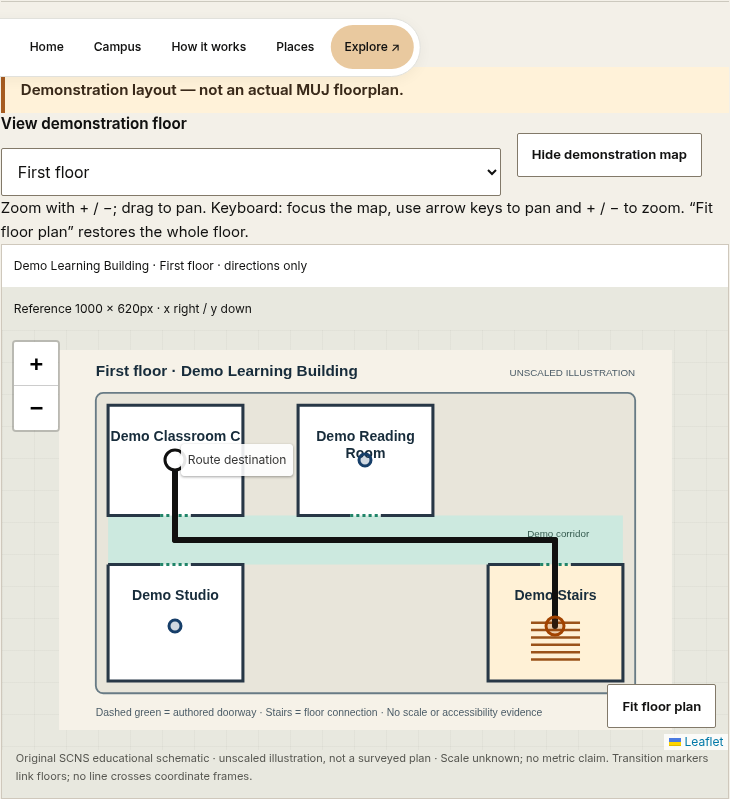
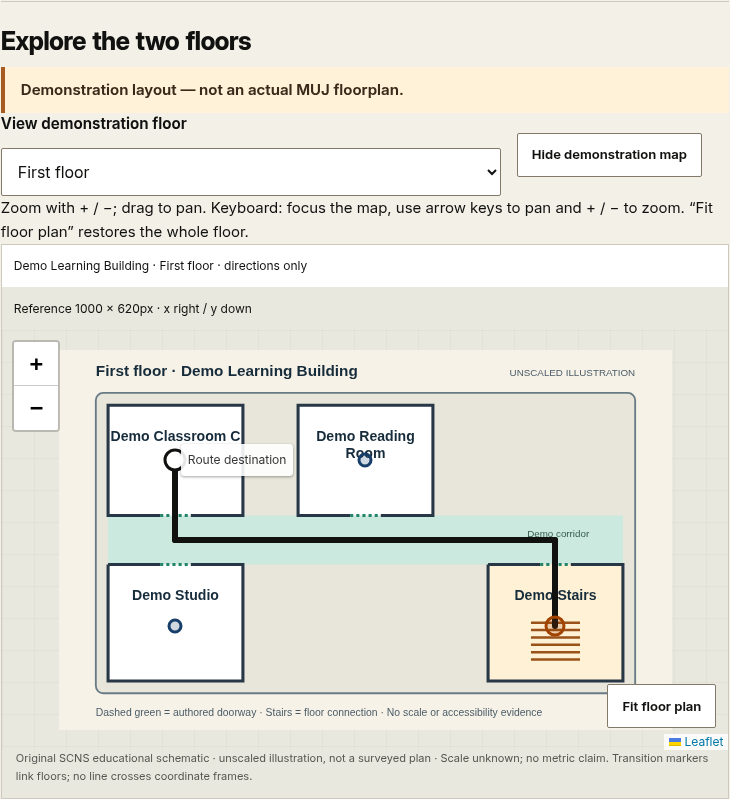
WIP unfinished: save verified explorer integration before Docker regression receipt

Changed region(s): [[0.0, 0.03, 0.5726, 0.1202]]

diff --git a/tests/e2e/educational-explorer.spec.ts b/tests/e2e/educational-explorer.spec.ts
@@ -85,16 +85,16 @@ test('integrated floors, computed paths, separate choices/results, share reload 
   await expect(page.getByText('Take Demo Stairs from First floor to Ground floor.',{exact:false})).toBeVisible()
   await lines(page,4)
   await choose(page,'Demo Classroom A','Demo Disconnected Room')
-  await expect(panel(page).getByRole('alert')).toContainText('has no authored graph connection')
+  await expect(panel(page).getByRole('alert',{includeHidden:true})).toContainText('has no authored graph connection')
   await lines(page,0)
   await outdoor(page)
-  await expect(panel(page).getByRole('alert')).not.toBeVisible()
+  await expect(panel(page).getByRole('alert',{includeHidden:true})).not.toBeVisible()
   await expect(page.locator('.route-metrics')).toContainText('257')
   await page.reload()
   await expect(page.getByRole('tab',{name:'Outdoor',exact:true})).toHaveAttribute('aria-selected','true')
   await expect(page.locator('.route-metrics')).toContainText('257')
   await indoor(page)
-  await expect(panel(page).getByRole('alert')).toContainText('has no authored graph connection')
+  await expect(panel(page).getByRole('alert',{includeHidden:true})).toContainText('has no authored graph connection')
 })
 
 test('late outdoor and indoor responses never replace active mode, state, focus or error',async({page})=>{
@@ -128,7 +128,7 @@ test('late outdoor and indoor responses never replace active mode, state, focus 
   await expect(page.getByText('Delayed demo failure.',{exact:true})).not.toBeVisible()
   await expect(page.locator('.route-metrics')).toBeVisible()
   await indoor(page)
-  await expect(panel(page).getByRole('alert')).toContainText('Delayed demo failure.')
+  await expect(panel(page).getByRole('alert',{includeHidden:true})).toContainText('Delayed demo failure.')
   await page.unroute('**'+endpoint+'/routes')
   await page.getByRole('button',{name:'Retry demo route',exact:true}).click()
   await expect(page.getByText('Computed demonstration route',{exact:true})).toBeVisible()
@@ -195,7 +195,7 @@ test('embedded loading, error, retry and empty states stay within their mode',as
   await expect(panel(page)).toBeFocused()
   await outdoor(page)
   release()
-  await expect(panel(page).getByRole('alert')).toContainText('Simulated layout offline.')
+  await expect(panel(page).getByRole('alert',{includeHidden:true})).toContainText('Simulated layout offline.')
   await expect(page.getByText('Simulated layout offline.',{exact:true})).not.toBeVisible()
   await page.getByRole('tab',{name:'Indoor demo',exact:true}).click()
   await page.unroute('**'+endpoint)

diff --git a/scripts/smoke-publication-containers.py b/scripts/smoke-publication-containers.py
@@ -200,6 +200,8 @@ def main():
                     [
                         "educational-indoor.spec.ts",
                         "educational-explorer.spec.ts",
+                        "map-explorer.spec.ts",
+                        "public-experience.spec.ts",
                         "navigation.spec.ts",
                         "indoor-routing.spec.ts",
                         "admin.spec.ts",

diff --git a/docs/operations/educational-indoor-demo.md b/docs/operations/educational-indoor-demo.md
@@ -12,7 +12,7 @@ Each mode keeps its own selections, results, map visibility and errors while swi
 
 Shareable embedded URLs use `campus=<UUID>&explorer=indoor-demo&demo_from=<room-UUID>&demo_to=<room-UUID>&demo_floor=<floor-UUID>&demo_route=1`. Outdoor `release/from/to/profile/mode/view/routed` remain separate and retain their normal recovery rules. Reload recomputes a requested demo route, rather than storing a highlighted result. Returning to Outdoor removes only the active demo flag, retaining demo choices. `/indoor-demo` (and old `from/to/floor/route/returnCampus` links) still works as a secondary compatibility view using the same component and endpoint; **Return to campus explorer** retains the supplied campus. This compatibility page is not the primary integration.
 
-This is **self-contained educational application content**, not a campus dataset, draft, public release or approval. No owner activation, login, import, review, publication, database writes or background processing is required. Deploying these local Docker builds merely serves the authored demo code/assets; it never publishes or changes campus data. Normal permissions, source/review/publication guards and public release contracts remain untouched. The API has its own read-only namespace:
+This is **self-contained educational application content**, not a campus dataset, draft, public release or approval. No owner activation, login, import, review, publication, database writes or background processing is required. Running these local Docker builds serves the authored demo code/assets; it never publishes or changes campus data. Normal permissions, source/review/publication guards and public release contracts remain untouched. The API has its own read-only namespace:
 
 - `GET /api/v1/educational/indoor-school`: versioned floor/room descriptions.
 - `POST /api/v1/educational/indoor-school/routes`: computes directions from `source_id`, `destination_id`, `expected_version`. It rejects stale versions, foreign room IDs and unsupported extra options. POST computes a response only; it performs no administrative write.
@@ -48,6 +48,10 @@ if ($ScnsLocalBranch) {
 Invoke-ScnsDemoStep { git pull --ff-only origin feat/muj-indoor-demo }
 Invoke-ScnsDemoStep { git merge-base --is-ancestor 1a67ea74cfa8cc19d9fc81a44809a5fa047d0fd9 HEAD }
 Invoke-ScnsDemoStep { git rev-parse HEAD }
+$ScnsLocalHead = git rev-parse HEAD
+if ($LASTEXITCODE -ne 0) { throw 'Cannot read local HEAD.' }
+$ScnsRemoteHead = git rev-parse refs/remotes/origin/feat/muj-indoor-demo
+if ($LASTEXITCODE -ne 0 -or $ScnsLocalHead -ne $ScnsRemoteHead) { throw 'Local/remote HEAD differ; preserve local work and stop. Nothing reset.' }
 $ScnsPhoneOverride = Join-Path $env:TEMP 'scns-phone.override.yaml'
 if (Test-Path -LiteralPath $ScnsPhoneOverride) { Write-Host 'Existing phone override preserved and excluded for laptop-only startup.' }
 $ScnsPreviousAppUrl = $env:PUBLIC_APP_URL
@@ -82,5 +86,6 @@ The final URL selects the owner's existing MUJ campus. If that campus is absent 
 5. Set **Demo Classroom A → Demo Disconnected Room · Ground floor**. Calculate. Expected: contextual **Demo route unavailable**, explanation that no authored connection exists, retained selections and no highlighted route. This is a graph reachability result, not a wall-crossing shortcut. Explain: **nodes represent rooms/junctions; directed connections represent authored movement; Dijkstra sums traversal costs; an isolated node has no path.**
 6. Use **Hide demonstration map** after a successful route; directions remain. Restore it, pan/zoom and **Fit floor plan**. Keyboard: Tab through labelled controls, Enter to calculate, focus map then arrow keys/+ or−. Narrow Chrome viewport: no horizontal page overflow; zoom for small plan labels. These are manual inputs/expected outcomes, not a claim that Windows/physical-device testing already passed.
 7. Select **Outdoor**; the selected campus, outdoor choices, published floor view and any still-valid route remain. Switch back to **Indoor demo**: room choices/floor/result or no-route state remain. Reload either mode and check its saved route recovery. Keyboard: focus a mode tab; Left/Right or Home/End switches with the selected tab focused, Tab reaches the active controls, and **Skip to route planner** focuses the active planner (or its panel while loading). Directory **Route here / Start here** returns to the normal planner with destination/start focused. No mode change should request GPS. Confirm its existing metric University Entrance→Mapped entrance10828149259 route remains approximately513m/13edges; Directions only remains approximately799m/9edges. Hostel→GHS23.62m/3 and Hostel→Faculty163.28m/6 remain expected. Demo Campus Main Gate→Library remains approximately257m/4min/3edges. Actual Windows database results are pending your local checks; cloud source-OSM/isolated fixture checks are separate evidence. No room from the educational graph should appear in the real campus directory.
+8. Optional pending-response manual check: in Chrome DevTools **Network**, temporarily select **Slow 3G**, start an ordinary **Find walking route**, then immediately select **Indoor demo**. Its room choices/active tab/focus must remain when the outdoor request finishes; its result appears only after switching back. Start **Find demo directions**, immediately select **Outdoor**; its later result/error must stay hidden until returning to Indoor demo. Restore **No throttling**. Do not use live GPS or enable phone/LAN access for this check.
 
 [Rendered floors/route and provenance](../previews/educational-indoor/README.md) · [Verification and preservation checklist](../testing/educational-indoor-demo.md).

diff --git a/docs/reviews/educational-indoor-demo-pr.md b/docs/reviews/educational-indoor-demo-pr.md
@@ -1,10 +1,8 @@
-Add a separate original two-floor educational indoor demonstration linked from the existing MUJ introduction. The page prominently states “Demonstration layout — not an actual MUJ floorplan.” It offers room selection, computed same-floor/cross-floor/reverse directions, floor-section controls and stair instructions, map-independent text, reload recovery and deliberate disconnected-room handling.
+Add an original two-floor educational indoor demonstration inside the existing MUJ map explorer. An accessible Outdoor / Indoor demo switch keeps each mode's choices, results and errors separate; late responses cannot replace the active mode or its URL state. The ordinary directory, route planner, published indoor floor views, policies and outdoor navigation remain. The obsolete extra homepage entry is removed, while direct /indoor-demo URLs remain supported as a compatibility view.
 
-The read-only educational API reuses the production pure Dijkstra engine over an authored graph with unit traversal costs. It makes no database writes, uses no campus draft/release or fake source/accessibility approvals, and returns unknown distance/ETA/scale. Original SVGs are not copied from the reference drawings. Existing public/admin data, algorithms, policies and workflows remain; native-Windows work is excluded.
+The viewer prominently states “Demonstration layout — not an actual MUJ floorplan.” It provides room selection, computed same-floor/cross-floor/reverse directions, floor-section/stair instructions, map-independent text, share/reload recovery and deliberate disconnected-room handling. The unchanged educational API reuses production pure Dijkstra over an authored graph with unit traversal costs. It performs no database writes, uses no campus draft/release or fake approvals, and asserts no measured distance/ETA/scale/accessibility. Original SVGs are not copied from reference drawings. No native-Windows, migration, dependency upgrade, reseed, real-campus edit, publication or deployment.
 
-Validation:276backend units;75frontend tests plus lint/type/build;33PostGIS/API cases with source-OSM MUJ metric/traversal baselines unchanged;72source desktop/mobile journeys plus14finalaffected;44built nginx/API/worker journeys and readiness/private boundaries. Retained22-table/.env/private-storage digests match. Ten decoded/checksummed PNGs and Windows Docker/presentation instructions are committed.
-
-Actual Windows/physical device/real MUJ database checks remain owner-run. MUJ-entry browser metadata is explicitly simulated over isolated synthetic release data. The original public route-button150ms transition contrast gap remains disclosed; its full axe assertion now waits for an enabled, settled control. No merge, public deployment, schema change, reseeding, real-campus edit or publication.
+Verification and screenshots: docs/testing/educational-indoor-demo.md and docs/previews/educational-indoor/integrated/README.md. Complete database-first, data-preserving Docker PowerShell/manual steps: docs/operations/educational-indoor-demo.md. Final integration counts and preserved-data evidence are recorded there; original276backend-unit/33PostGIS results are reused only for unchanged backend/contracts. MUJ browser metadata is explicitly simulated over disposable synthetic releases; actual Windows/physical-device/real MUJ database checks remain owner-run. Prior baseline button-transition contrast limitation remains disclosed.
 
 Base: polish/muj-homepage at ee683e1a61a6584147c3e39b121a8765db5e46ba.
 Head: feat/muj-indoor-demo.

diff --git a/docs/product/requirements-checklist.md b/docs/product/requirements-checklist.md
@@ -167,7 +167,18 @@ This explicitly fictional context is linked from MUJ but is not a real MUJ/Nalan
 
 | ID | Delivered scope | Evidence / status | Limits |
 |---|---|---|---|
-| EDU-01 | Original two-floor schematics, generic rooms, prominent qualification and MUJ-only additive entry | verified: component/browser/rendered checks and10decoded built PNGs | Reference PDF not copied/traced/shipped; existing photo/logo/directory/actions retained |
+| EDU-01 | Original two-floor schematics, generic rooms, prominent qualification and MUJ-only explorer entry | verified: component/browser/rendered checks and10decoded built PNGs | Reference PDF not copied/traced/shipped; existing photo/logo/directory/actions retained |
 | EDU-02 | Existing pure Dijkstra over authored directed graph; same/cross/reverse/disconnected/same-room routes | verified:276units/33PostGIS/API;72source+14finalaffected/44built journeys | Traversal cost only; scale, distance, ETA, accessibility evidence unknown; no real outdoor links or verified step-free claim |
 | EDU-03 | Shared floor renderer/frames, stairs, floor-section buttons, zoom/pan, independent text, loading/error/empty/retry/reload/keyboard controls | verified: final14source/44built journeys;75frontend tests | Phone viewport/browser simulation, not physical device/Windows/human AT; baseline button-transition contrast limitation separately disclosed |
 | EDU-04 | Docker-only data-preserving delivery, retained/public regression, operations/presentation/screenshots | verified:44built cases/private+readiness boundaries; retained22-table/.env/storage digests match;10PNGmanifest | No activation/seed/import/migration/publication; actual Windows MUJ acceptance remains owner-run |
+
+
+### Educational explorer integration follow-up
+
+Explicitly requested adjustment from `1a67ea7`, outside numbered milestones. The extra homepage link is removed; the same MUJ explorer map section now offers Outdoor / Indoor demo. Prior EDU counts above record the original delivery; current verification is recorded separately in [the integration evidence](../testing/educational-indoor-demo.md#explorer-integration-adjustment--verification-in-progress).
+
+| ID | Requirement | Status / boundary |
+|---|---|---|
+| EDU-05 | MUJ-only accessible mode switch, same-area floor viewer/room planner/stair directions, original outdoor/published-floor functionality retained | Implemented; roving tabs/selected state, full directory preserved, place actions activate original planner, active-planner skip focus. Final source/built verification in progress. |
+| EDU-06 | Separate mode choices/results/errors and pending responses; namespaced share/reload state; hidden-map text | Implemented using mounted hidden panels and demo_* URL keys. Existing backend/API/graph/assets unchanged. No GPS request/campus reset on switching; existing expiry/restriction/release safeguards still operate. Final verification in progress. |
+| EDU-07 | Preserve original homepage/branding/public/admin/data and direct demo links, Docker-only delivery | Original route-results/grid hierarchy restored after original test exposed wrapper regression; original assertions retained. Legacy /indoor-demo remains supported. No migrations, seed, native-Windows changes, publication or real-campus edits. Windows/device acceptance pending. |

diff --git a/docs/progress.md b/docs/progress.md
@@ -1268,3 +1268,7 @@ First integration checkpoint b34acd6 pushed.76frontend tests/lint/type/build pas
 ### Integrated explorer correction checkpoint — explicitly unfinished final rerun
 
 Checkpoint e3b96cc pushed with early source renders/tests/docs. Initial broad run:85passed/4failed/1intentional skip,5.8m. Two failures were the new test assuming Library on directory page1; fixed test uses normal search. Two were original assertions revealing outdoor route-results had moved under a wrapper; restored original direct explorer parent and original grid hierarchy, with independent hidden state and ARIA controls. Original assertion retained. A transient duplicate test screenshot option caused TypeScript failure and was removed.76frontend tests/type/lint/build pass before the final hierarchy correction; final checks rerunning. Pending/loading skip target and hash-free floor edits are covered. Final92-case source and refreshed Docker build running; completion, built smoke and retention verification still pending. No changes to backend or retained data.
+
+### Integrated explorer source verified — explicitly unfinished container checkpoint
+
+Final-runtime broad source run:89passed/2new-test-locator failures/1existing mobile skip,5.4m. With only the hidden-role locator corrected (no runtime change), all8affected desktop/mobile integration cases now pass24.4s. Combined valid evidence covers91distinct cases plus the existing skip: original directory hierarchy/actions, search/pagination, homepage/MUJ branding, route policies/focus/scroll/reload/errors, published indoor routes/floor transitions, QR, simulated GPS/expiry/restrictions and admin. Final76frontend tests/lint/type/build and smoke-runner Ruff pass. API/frontend images built from frozen locks with the final runtime; backend/graph/assets/contracts unchanged, prior276backend units/33PostGIS remain applicable. Only unused builder cache reclaimed when free disk reached2.2GB; no image/volume pruning. Original10demo/54homepage images preserved; removing only duplicate captures this adjustment generated in its new integrated directory. Built76-case nginx/API/worker suite (includes original map/public-experience assertions) running on owned disposable resources; final built renders/retention hashes/docs completion pending.

diff --git a/docs/testing/educational-indoor-demo.md b/docs/testing/educational-indoor-demo.md
@@ -54,3 +54,5 @@ Starting point local/remote `1a67ea74cfa8cc19d9fc81a44809a5fa047d0fd9`, same fea
 The adjustment touches only the explorer mode wrapper, outdoor URL merge (same original outdoor keys/values and GPS exclusions), directory activation before existing focus, active-planner skip behavior, reusable educational markup/styles and tests. Original published-floor rendering, route policies, defaults/messages, QR/GPS/restriction/release machinery, homepage branding/directory and admin remain. New mode tabs are MUJ-only, selected/roving and keyboard operated; both panels remain mounted, hidden inactive panels cannot show the other route/errors. Separate demo_* share parameters preserve outdoor recovery. Legacy direct page tests retain their behavior assertions; only the obsolete primary-entry test is replaced by stronger explorer workflows. No original public regression assertions are removed.
 
 Final counts, rendered evidence and retained-data comparison follow after verification. Tests use a MUJ metadata-response simulation over disposable synthetic releases; they do not inspect the owner's actual Windows MUJ/E22 database. No Windows/device/location/accessibility/field approval evidence is inferred.
+
+Intermediate integration findings: first broad90-case run85passed/4failed/1intentional skip. Two new directory-action failures assumed Library was on the first six-place page; tests now search normally. Two original assertions correctly exposed that outdoor route-results had moved inside a new wrapper; the original direct explorer parent/grid hierarchy was restored without editing those assertions. A duplicate screenshot style option briefly failed TypeScript and was removed. A later new loading-state test queried an intentionally hidden error using a visible-only role locator; it now explicitly includes hidden roles and separately asserts invisibility. These test corrections do not relax expected behavior. URL review removed a potential hash-triggered section focus/scroll jump; keyboard/floor assertions check the active select and stable scroll. Runtime changes have been frozen for final affected source and built verification.

diff --git a/docs/previews/educational-indoor/integrated/README.md b/docs/previews/educational-indoor/integrated/README.md
@@ -1,0 +1,15 @@
+# MUJ explorer: integrated educational floor viewer
+
+**Demonstration layout — not an actual MUJ floorplan.** MUJ metadata is simulated over an isolated synthetic release in these Linux/Chromium checks. These are not screenshots of the owner's Windows database, a real MUJ building or field verification.
+
+| Explorer view | Desktop | Emulated mobile |
+|---|---|---|
+| Ground-floor section, computed Classroom A → Classroom C | [Ground](desktop-chromium/integrated-ground.png) | [Ground](mobile-chromium/integrated-ground.png) |
+| First-floor section of the same computed route | [First](desktop-chromium/integrated-first.png) | [First](mobile-chromium/integrated-first.png) |
+| Entire explorer, mode tabs, room controls and computed stair/text directions | [Cross-floor route](desktop-chromium/integrated-cross-route.png) | [Cross-floor route](mobile-chromium/integrated-cross-route.png) |
+
+The floating navigation/skip link is hidden only during screenshot capture so it does not cover the selected section; actual navigation/focus behavior is tested separately. No image compositing or blueprint substitution. Small schematic text at whole-floor phone fit needs zoom; full-size room selectors and text directions remain independent of the map. The manifest records file sizes, decoded dimensions and SHA256; final capture/runtime and inspection evidence is in [verification](../../../testing/educational-indoor-demo.md).
+
+The [original standalone images](../README.md) and accepted homepage screenshots remain historical evidence, unchanged. The old extra homepage demo link is removed; the primary entry is **MUJ → Explore ↗ → Indoor demo**. `/indoor-demo` remains a compatibility view using the same component/API.
+
+[Windows Docker update and manual presentation](../../../operations/educational-indoor-demo.md).

diff --git a/docs/previews/educational-indoor/README.md b/docs/previews/educational-indoor/README.md
@@ -1,5 +1,7 @@
 # Original educational indoor demonstration — rendered evidence
 
+The primary experience is now embedded in the MUJ explorer. See the [current integrated floor/route evidence](integrated/README.md). The ten images below are preserved historical evidence of the original standalone delivery at `1a67ea7`; its homepage entry is superseded, and `/indoor-demo` remains a compatibility view.
+
 **Demonstration layout — not an actual MUJ floorplan.** These PNGs show original SCNS educational schematics, never the supplied Nalanda blueprints or a surveyed/approved MUJ plan. The MUJ-entry image uses accurately labelled **metadata-response simulation over an isolated synthetic published release**, not the owner's Windows database.
 
 Final captures come from built Linux nginx/API/worker desktop/mobile browser journeys. Routes are computed by the real educational endpoint using the existing production Dijkstra engine. All10PNG files were independently verified non-empty and decoded, with sizes/dimensions/SHA256 in [manifest.json](manifest.json). No screenshot editing/compositing. Offscreen skip links are hidden only during full-page capture to avoid capture artifacts; actual visibility/focus/skip-target behavior has separate browser assertions. Existing accepted homepage54screenshots and supplied photo/logo remain unchanged.
